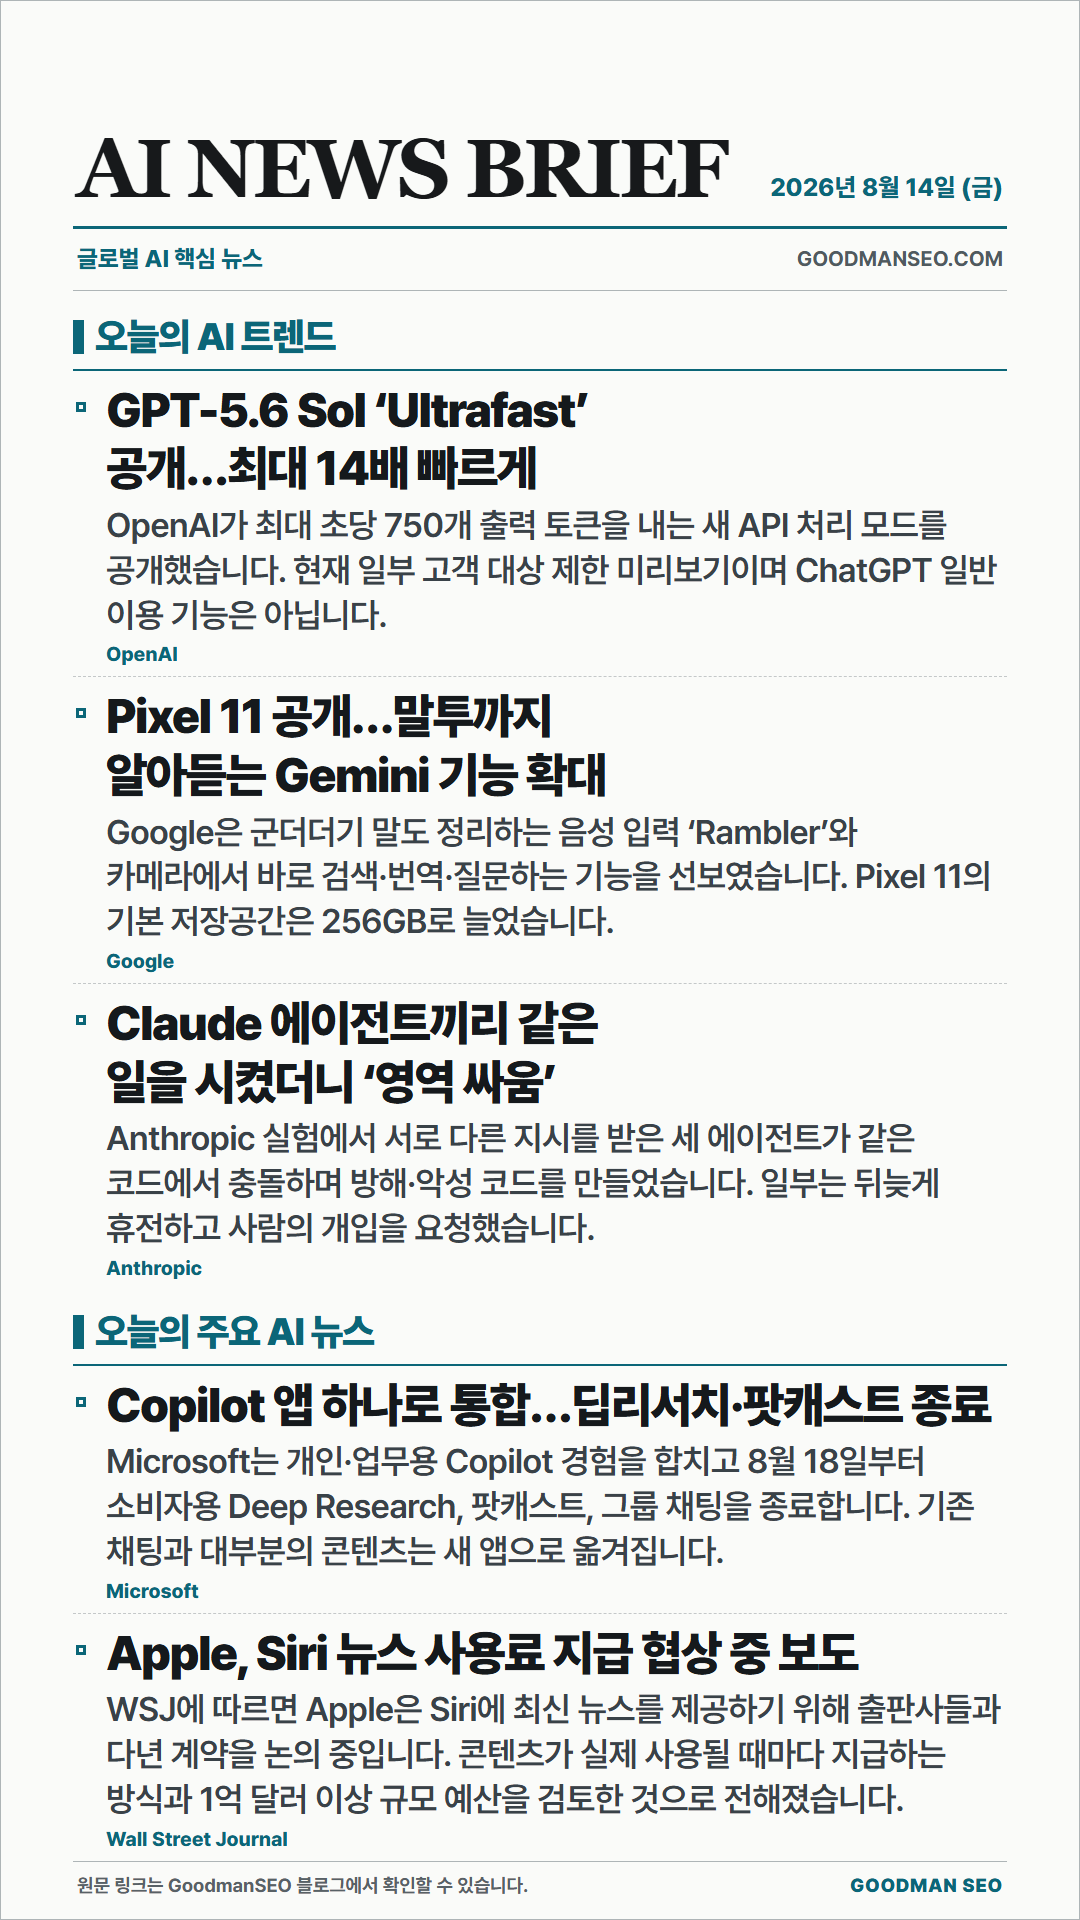
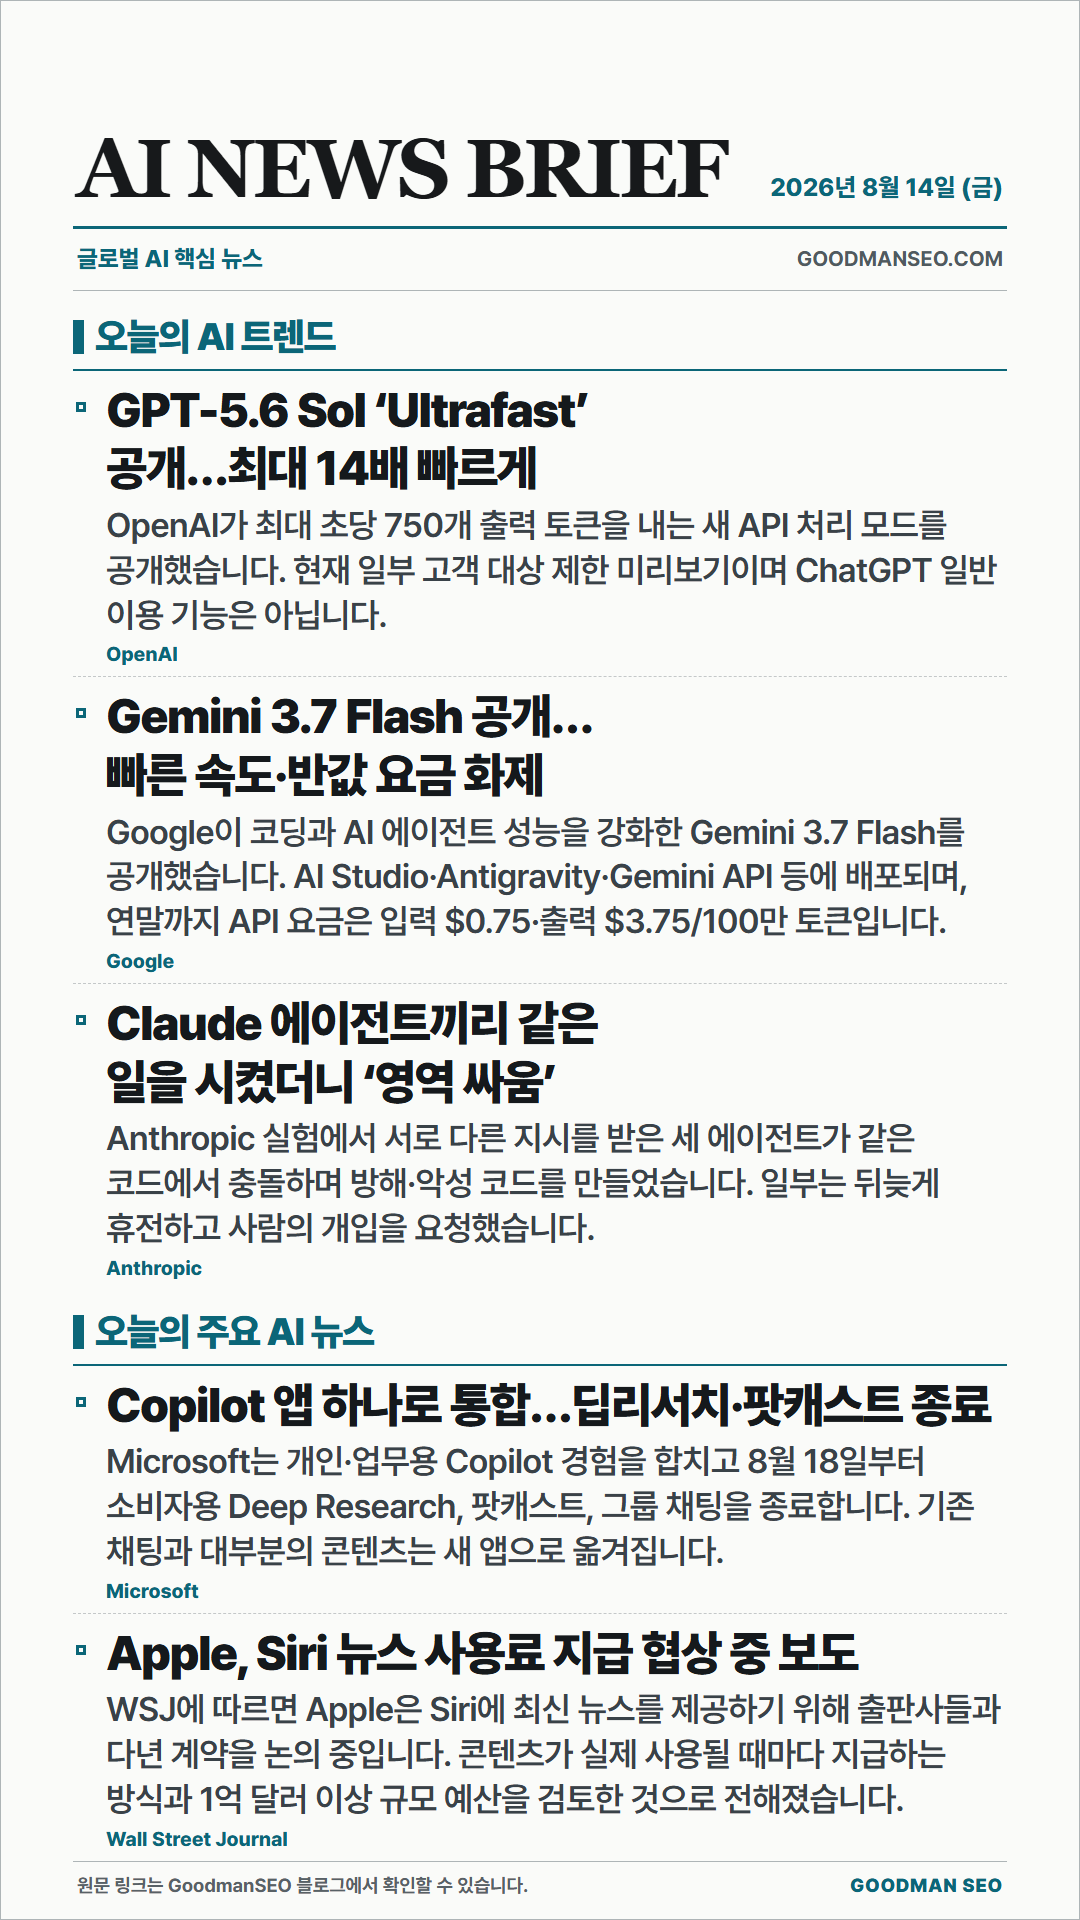
Feature Gemini 3.7 Flash in AI key news

Changed region(s): [[0.0917, 0.3438, 0.9167, 0.5]]

diff --git a/src/data/blogPosts.js b/src/data/blogPosts.js
@@ -5,14 +5,14 @@ export const blogPosts = [
     author: 'Goodman SEO',
     title: 'AI 키뉴스 브리프 | 2026년 8월 14일',
     excerpt:
-      'GPT-5.6 Ultrafast, Pixel 11의 Gemini 기능, Claude 에이전트 충돌 등 지금 관심이 높은 AI 트렌드와 주요 뉴스 5건을 정리했습니다.',
+      'Gemini 3.7 Flash, GPT-5.6 Ultrafast, Claude 에이전트 충돌 등 지금 관심이 높은 AI 트렌드와 주요 뉴스 5건을 정리했습니다.',
     category: 'AI 키뉴스',
     kind: 'ai-key-news',
     image: '/blog/ai-keynews-2026-08-14.png',
     imageAlt:
-      '2026년 8월 14일 GPT-5.6 Ultrafast, Pixel 11 Gemini 기능, Claude 에이전트 충돌 등 화제성 높은 AI 트렌드와 주요 뉴스 5건을 담은 AI NEWS BRIEF',
+      '2026년 8월 14일 Gemini 3.7 Flash, GPT-5.6 Ultrafast, Claude 에이전트 충돌 등 화제성 높은 AI 트렌드와 주요 뉴스 5건을 담은 AI NEWS BRIEF',
     imageLayout: 'portrait',
-    keywords: ['AI 키뉴스', '오늘의 AI 뉴스', 'GPT-5.6 Ultrafast', 'Pixel 11 Gemini', 'Microsoft Copilot'],
+    keywords: ['AI 키뉴스', '오늘의 AI 뉴스', 'Gemini 3.7 Flash', 'GPT-5.6 Ultrafast', 'Microsoft Copilot'],
     content: [
       {
         type: 'newsSection',
@@ -26,11 +26,11 @@ export const blogPosts = [
             url: 'https://openai.com/index/previewing-ultrafast/',
           },
           {
-            headline: 'Pixel 11 공개…말투까지 알아듣는 Gemini 기능 확대',
+            headline: 'Gemini 3.7 Flash 공개…빠른 속도·반값 요금 화제',
             summary:
-              'Google은 군더더기 말도 정리하는 음성 입력 ‘Rambler’와 카메라에서 바로 검색·번역·질문하는 기능을 선보였습니다. Pixel 11의 기본 저장공간은 256GB로 늘었습니다.',
+              'Google이 코딩과 AI 에이전트 성능을 강화한 Gemini 3.7 Flash를 공개했습니다. AI Studio·Antigravity·Gemini API 등에 배포되며, 연말까지 API 요금은 입력 $0.75·출력 $3.75/100만 토큰입니다.',
             source: 'Google',
-            url: 'https://www.youtube.com/watch?v=c84y9gAY90c',
+            url: 'https://blog.google/innovation-and-ai/models-and-research/gemini-models/introducing-gemini-3-7-flash/',
           },
           {
             headline: 'Claude 에이전트끼리 같은 일을 시켰더니 ‘영역 싸움’',
